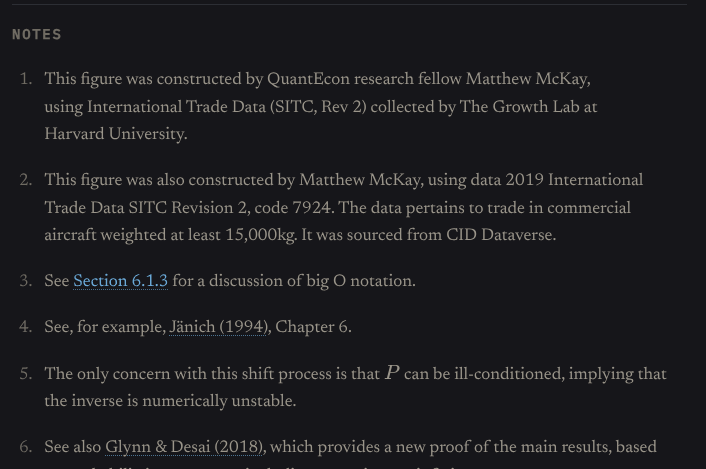
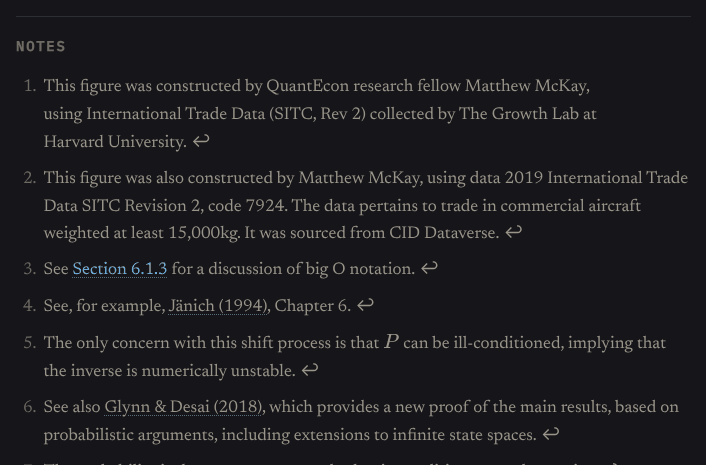
fix(book): run a note's ↩ on after its text, as chapter.html draws it
The design's `.footnotes li` ends each note with a plain ↩ (`a.plain`):
inline, in the note's face and colour, always shown. Upstream puts the
back-link in a column of its own, in mono, hidden until hover. The note's
paragraph also loses upstream's left margin, which would otherwise indent
only its first line once it runs inline.

Reviewed the rest of the furniture against the designs: the marks, the
"Notes" kicker, the list's size and colours (including the faint
numerals, from the design's `.article li::marker`) and the margin notes
already match.

Claude-Session: https://claude.ai/code/session_01HvzxXmjhiQ9zpoRPCv5p3G

diff --git a/themes/book/tests/e2e/furniture.spec.ts b/themes/book/tests/e2e/furniture.spec.ts
@@ -182,6 +182,19 @@ test.describe('furniture', () => {
     await expect(notes.locator('.myst-footnotes-header')).toHaveText(/^Notes/);
     expect(await css(notes.locator('.myst-footnotes-header'), 'color')).toBe(await token(page, '--qb-faint'));
     expect(await css(notes.locator('.myst-footnotes-list'), 'color')).toBe(await token(page, '--qb-muted'));
+    // The ↩ shown, running on after the note in its face and colour, as the
+    // design's `.footnotes li` has it (`a.plain`).
+    const item = notes.locator('.myst-footnotes-item').first();
+    const back = item.locator('.myst-footnote-backlinks a');
+    await expect(back).toBeVisible();
+    expect(await css(back, 'opacity')).toBe('1');
+    expect(await css(back, 'color')).toBe(await token(page, '--qb-muted'));
+    expect(await css(back, 'font-family')).toContain('Newsreader');
+    const [noteBox, backBox] = await Promise.all([
+      item.locator('.myst-footnote-content').boundingBox(),
+      back.boundingBox(),
+    ]);
+    expect(Math.abs(backBox!.y - noteBox!.y)).toBeLessThan(8);
     // One hairline over the list, not one over the header and another over the list.
     const ruled = await notes.locator(':scope > *').evaluateAll((els) =>
       els.filter((e) => parseFloat(getComputedStyle(e).borderTopWidth) > 0).length,

diff --git a/themes/book/styles/book.css b/themes/book/styles/book.css
@@ -1113,18 +1113,26 @@ details.qb-env[open] > summary::after {
   color: var(--qb-ink);
 }
 .qb-notes .myst-footnote-content p {
-  margin: 0;
+  margin: 0 !important;
+}
+/* As the design's `.footnotes li`: the back-link is a plain ↩ (`a.plain`)
+   running on after the note, in the note's face and colour, always shown.
+   Upstream puts it in a column of its own, hidden until hover. */
+.qb-notes .myst-footnotes-item > div {
+  display: block !important;
+}
+.qb-notes .myst-footnote-content,
+.qb-notes .myst-footnote-content > :last-child,
+.qb-notes .myst-footnote-backlinks {
+  display: inline !important;
 }
 .qb-notes .myst-footnote-backlinks a {
-  padding: 0 0 0 0.5em !important;
-  line-height: inherit;
-  color: var(--qb-muted) !important;
-  font-family: var(--qb-font-mono);
-  font-size: 12px;
+  display: inline;
+  padding: 0 0 0 0.25em !important;
+  opacity: 1 !important;
+  color: inherit !important;
+  font: inherit;
   text-decoration: none !important;
-}
-.qb-notes .myst-footnote-backlinks a:hover {
-  color: var(--qb-blue) !important;
 }
 /* The references: author–year entries with a hanging indent, unnumbered. */
 .qb-notes .myst-bibliography-list ol {

diff --git a/themes/book/CHANGELOG.md b/themes/book/CHANGELOG.md
@@ -32,7 +32,9 @@ keeps its own changelog in `themes/lecture/CHANGELOG.md`.
   look as before ([#282](https://github.com/QuantEcon/quantecon-theme.mystmd/pull/282)).
 - Footnote marks are small mono numerals without brackets. The footnotes,
   now headed "Notes", and the references are set smaller in the muted
-  colour, each under a faint mono kicker ([#282](https://github.com/QuantEcon/quantecon-theme.mystmd/pull/282)).
+  colour, each under a faint mono kicker. A note's ↩ runs on after its
+  text and is always shown, rather than in a column of its own until hover
+  ([#282](https://github.com/QuantEcon/quantecon-theme.mystmd/pull/282)).
 - Margin notes open with a clay ▸ and show their hairline in the gutter;
   below 1080px they sit in the column as a filled box with a clay rule ([#282](https://github.com/QuantEcon/quantecon-theme.mystmd/pull/282)).
 
